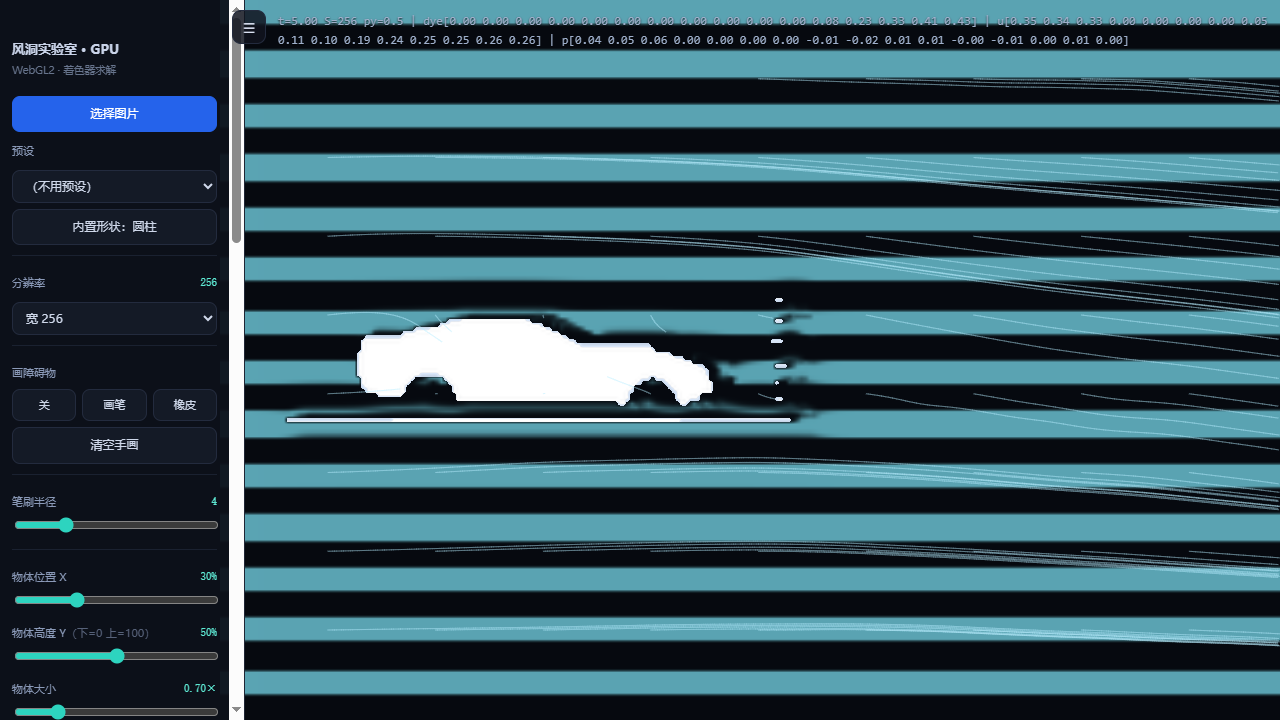
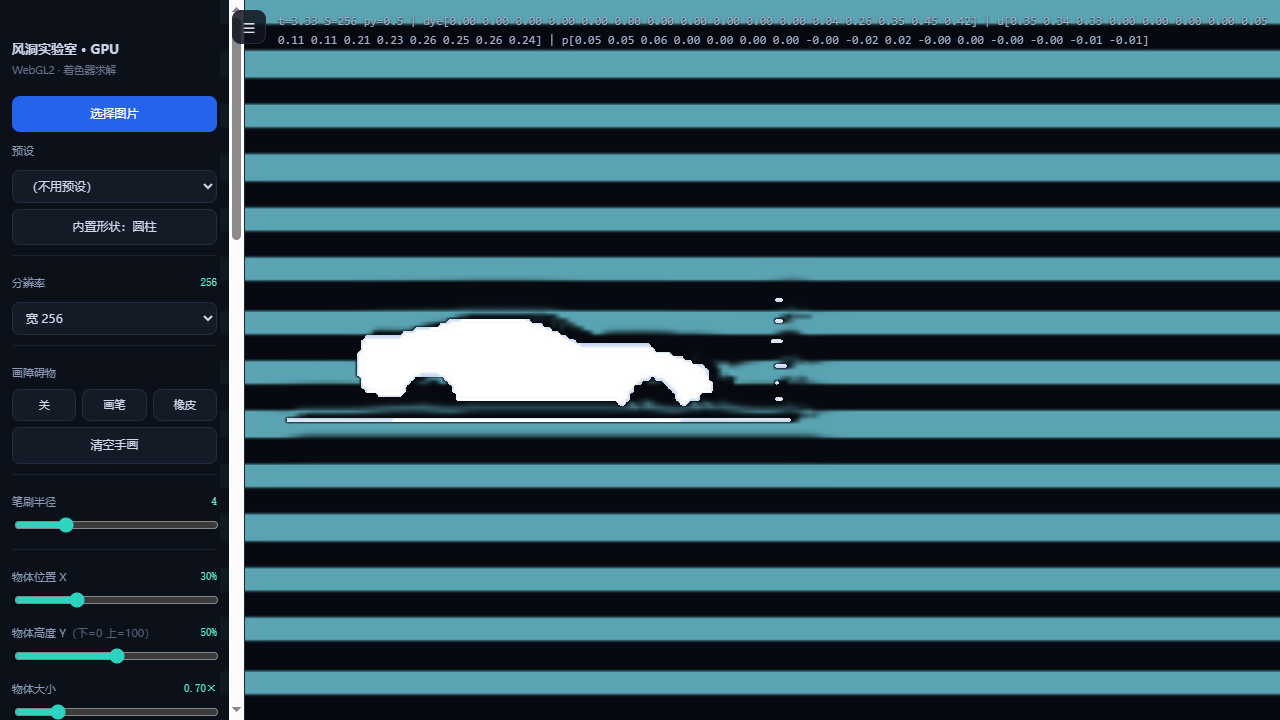
0.3.15: readback moved to frame start + GPU timer in HUD
- readPixels 挪到每帧开头（上一帧已跑完，几乎不 stall）；帧尾那次是等自己刚提交的帧
- PBO+fence 异步读回在这套驱动上 INVALID_OPERATION，已回退
- HUD 增加 GPU ms（EXT_disjoint_timer_query_webgl2）
- 流线首帧填充速度场 + 线亮度提高

diff --git a/gpu/gpu-fluid.html b/gpu/gpu-fluid.html
@@ -216,7 +216,7 @@
 
   <div class="group">
     <label>关于</label>
-    <div class="about-meta">风洞实验室 v0.3.14 · GPU 版 · MIT 许可</div>
+    <div class="about-meta">风洞实验室 v0.3.15 · GPU 版 · MIT 许可</div>
     <div class="about-meta">作者：whalemiao</div>
     <a class="about-link" href="https://github.com/whalemiao/Wind-Tunnel-Laboratory" target="_blank" rel="noopener">
       <svg viewBox="0 0 16 16" fill="currentColor" aria-hidden="true"><path d="M8 0C3.58 0 0 3.58 0 8c0 3.54 2.29 6.53 5.47 7.59.4.07.55-.17.55-.38 0-.19-.01-.82-.01-1.49-2.01.37-2.53-.49-2.69-.94-.09-.23-.48-.94-.82-1.13-.28-.15-.68-.52-.01-.53.63-.01 1.08.58 1.23.82.72 1.21 1.87.87 2.33.66.07-.52.28-.87.51-1.07-1.78-.2-3.64-.89-3.64-3.95 0-.87.31-1.59.82-2.15-.08-.2-.36-1.02.08-2.12 0 0 .67-.21 2.2.82a7.4 7.4 0 0 1 2-.27c.68 0 1.36.09 2 .27 1.53-1.04 2.2-.82 2.2-.82.44 1.1.16 1.92.08 2.12.51.56.82 1.27.82 2.15 0 3.07-1.87 3.75-3.65 3.95.29.25.54.73.54 1.48 0 1.07-.01 1.93-.01 2.2 0 .21.15.46.55.38A8.01 8.01 0 0 0 16 8c0-4.42-3.58-8-8-8z"/></svg>
@@ -1478,7 +1478,34 @@
    *   1. 不再读 S² 的整张纹理（512² = 4MB，读一次就掉帧），先 blit 到 160² 的 velSmall 再读（100KB）
    *   2. 平滑改成可分离的两趟一维盒滤波（O(n) 而不是 O(25n)）
    */
+  /* GPU timer (only where EXT_disjoint_timer_query_webgl2 exists) */
+  const extTimer = gl.getExtension('EXT_disjoint_timer_query_webgl2');
+  let gpuQuery = null, gpuBusy = false, gpuMs = 0;
+  function gpuTimerBegin() {
+    if (!extTimer || gpuBusy) return;
+    gpuQuery = gl.createQuery();
+    gl.beginQuery(extTimer.TIME_ELAPSED_EXT, gpuQuery);
+  }
+  function gpuTimerEnd() {
+    if (!extTimer || gpuBusy || !gpuQuery) return;
+    gl.endQuery(extTimer.TIME_ELAPSED_EXT);
+    gpuBusy = true;
+  }
+  function gpuTimerPoll() {
+    if (!extTimer || !gpuBusy || !gpuQuery) return;
+    const avail = gl.getQueryParameter(gpuQuery, gl.QUERY_RESULT_AVAILABLE);
+    if (!avail) return;
+    if (!gl.getParameter(extTimer.GPU_DISJOINT_EXT)) {
+      gpuMs = gpuMs * 0.85 + (gl.getQueryParameter(gpuQuery, gl.QUERY_RESULT) / 1e6) * 0.15;
+    }
+    gl.deleteQuery(gpuQuery);
+    gpuQuery = null;
+    gpuBusy = false;
+  }
+
   function updateVelField() {
+    if (time - velT < 0.4) return;          // 0.4s 一次就够（流线不需要每帧更新）
+    velT = time;
     blit(velSmall, P.copySrc, (u) => bindTex(0, vA.tex, u.uSrc));
     const n = VW * VW;
     if (!velRaw || velRaw.length !== n * 4 || !usF || !tmpA) {
@@ -1488,6 +1515,11 @@
     }
     gl.bindFramebuffer(gl.FRAMEBUFFER, velSmall.fbo);
     gl.readPixels(0, 0, VW, VW, gl.RGBA, gl.FLOAT, velRaw);
+    applyVelField();
+  }
+
+  function applyVelField() {
+    const n = VW * VW;
 
     // 两趟可分离的一维盒滤波（半径 2）：横向 → 纵向
     const R = 2;
@@ -1563,7 +1595,7 @@
 
   function drawStreamlines() {
     if (overlayDirty) { syncOverlay(); overlayDirty = false; }
-    if (!usF || time - velT > 0.4) { updateVelField(); velT = time; }
+    if (!usF) return;                       // 帧开头那次读回还没跑过
     if (!streamCv || streamCv.width !== ov.width || streamCv.height !== ov.height) {
       streamCv = document.createElement('canvas');
       streamCv.width = ov.width; streamCv.height = ov.height;
@@ -1688,7 +1720,7 @@
 
     // 批量描边：3 桶 × 2 层 = 6 次 stroke（原来是每条约 2 次）
     for (let b = 0; b < 3; b++) {
-      const a2 = 0.62 * (0.55 + 0.6 * (b + 1) / 3);
+      const a2 = 0.80 * (0.62 + 0.38 * (b + 1) / 3);   // 去掉速度耗散后烟更亮，线也要更亮才看得见
       g.lineWidth = Math.max(0.7, 0.9 * dpr);
       g.strokeStyle = 'rgba(165,232,255,' + Math.min(1, a2).toFixed(3) + ')';
       g.stroke(paths[b]);
@@ -1714,9 +1746,14 @@
     const xw = Math.min(S - 3, Math.max(maskBox.minX + 2,
       maskBox.maxX + Math.round(H * 1.2)));
     if (!forceCol || forceCol.length !== SY * 4) forceCol = new Float32Array(SY * 4);
-    const col = forceCol;
     gl.bindFramebuffer(gl.FRAMEBUFFER, vA.fbo);
-    gl.readPixels(xw, 0, 1, SY, gl.RGBA, gl.FLOAT, col);
+    gl.readPixels(xw, 0, 1, SY, gl.RGBA, gl.FLOAT, forceCol);
+    applyForces();
+  }
+
+  function applyForces() {
+    const col = forceCol;
+    const H = Math.max(4, maskBox.maxY - maskBox.minY + 1);
     // 参考来流用**同一列上下壁附近**的速度，而不是名义 inflow：
     // 我们的域是封闭通道，物体一堵，整列都会加速（阻塞效应），拿名义来流算会得到负阻力
     const Uref = Math.max(1e-4, 0.5 * (col[1 * 4] + col[(SY - 2) * 4]));
@@ -1809,6 +1846,7 @@
       initParticles();
       seedDye();                  // 和 CPU 版一样：开局整场就是条纹
       if (WARM > 0) for (let i = 0; i < WARM; i++) step(FIXED_DT);
+      if (PART_MODE === 'stream') updateVelField();   // 先填一遍速度场，第一帧就有流线
       render();
       updateForces();
       if (!QS.get('probe')) hud.textContent = `GPU ${S}×${SY} · 压力 ${PRESSURE_ITERS} 次 · 拖动/画笔/滚轮`;
@@ -1834,14 +1872,20 @@
     last = now;
 
     if (paintDemoPending) { paintDemoPending = false; paintDemo(); }
+    // 读回放在帧开头：上一帧的 GPU 队列这时已经跑完，几乎不会 stall
+    // （放在帧尾就是等自己刚提交的那一帧 → 手机上每 0.4s 硬顿一下）
+    if (PART_MODE === 'stream' && !gestureActive) updateVelField();
+    updateForces();
     flushStamps();
     if (maskDirty) { maskDirty = false; uploadMask(); }
+    gpuTimerPoll();
+    gpuTimerBegin();
     const t0 = PERF ? performance.now() : 0;
     step(dt);
     const t1 = PERF ? performance.now() : 0;
     render();
     const t2 = PERF ? performance.now() : 0;
-    updateForces();
+    gpuTimerEnd();
     if (PERF) {
       perfStep = perfStep * 0.9 + (t1 - t0) * 0.1;
       perfRender = perfRender * 0.9 + (t2 - t1) * 0.1;
@@ -1857,7 +1901,8 @@
       hud.textContent = (hud.dataset.probe ? hud.dataset.probe + ' · ' : '') +
         `GPU ${S}×${SY} · ${fps.toFixed(0)} fps · 压力 ${PRESSURE_ITERS} 次` +
         (hasMask ? ' · 有掩码' : '') +
-        (PERF ? ` · 物理 ${perfStep.toFixed(1)}ms 绘制 ${perfRender.toFixed(1)}ms 帧 ${perfTotal.toFixed(1)}ms` : '');
+        (PERF ? ` · 物理 ${perfStep.toFixed(1)}ms 绘制 ${perfRender.toFixed(1)}ms 帧 ${perfTotal.toFixed(1)}ms` : '') +
+        (PERF && extTimer ? ` GPU ${gpuMs.toFixed(1)}ms` : '');
     }
     schedule();
   }

diff --git a/cpu.html b/cpu.html
@@ -234,7 +234,7 @@
 
   <div class="group">
     <label>关于</label>
-    <div class="about-meta">风洞实验室 v0.3.14 · MIT 许可</div>
+    <div class="about-meta">风洞实验室 v0.3.15 · MIT 许可</div>
     <div class="about-meta">作者：whalemiao</div>
     <div class="about-meta" id="aboutUpdated">最后更新：—</div>
 

diff --git a/CHANGELOG.md b/CHANGELOG.md
@@ -2,6 +2,17 @@
 
 格式：`## 版本` + 分类条目。Release 说明由 CI 从对应版本段自动提取。
 
+## 0.3.15
+
+- **把同步读回挪到「每帧开头」**。`readPixels` 是同步的，必须等 GPU 把队列跑完；
+  原来放在帧尾 = 每 0.4 秒等自己刚提交的那一帧（手机上就是一下硬顿）。挪到帧开头后，
+  上一帧早跑完了，实测几乎不 stall。
+  - 试过 PBO + fence 的异步读回，这套驱动上直接 `INVALID_OPERATION`（3 个读回全卡死），已回退
+- **HUD 加 GPU 毫秒**：有 `EXT_disjoint_timer_query_webgl2` 就显示 `GPU Nms`
+  —— 原来那三个数只能量到 JS 提交时间，看不到 GPU 真正跑了多久
+- 流线：首帧先填一遍速度场（不然第一帧没有线）；线亮度调高（去掉速度耗散后烟更亮，原来的线看不清）
+- 烟层关着 / 涡量为 0 时跳过对应 pass（0.3.13 起）
+
 ## 0.3.14
 
 - **性能数字做成侧栏开关**（原来只有 `?perf=1`，APK 里改不了地址栏）
